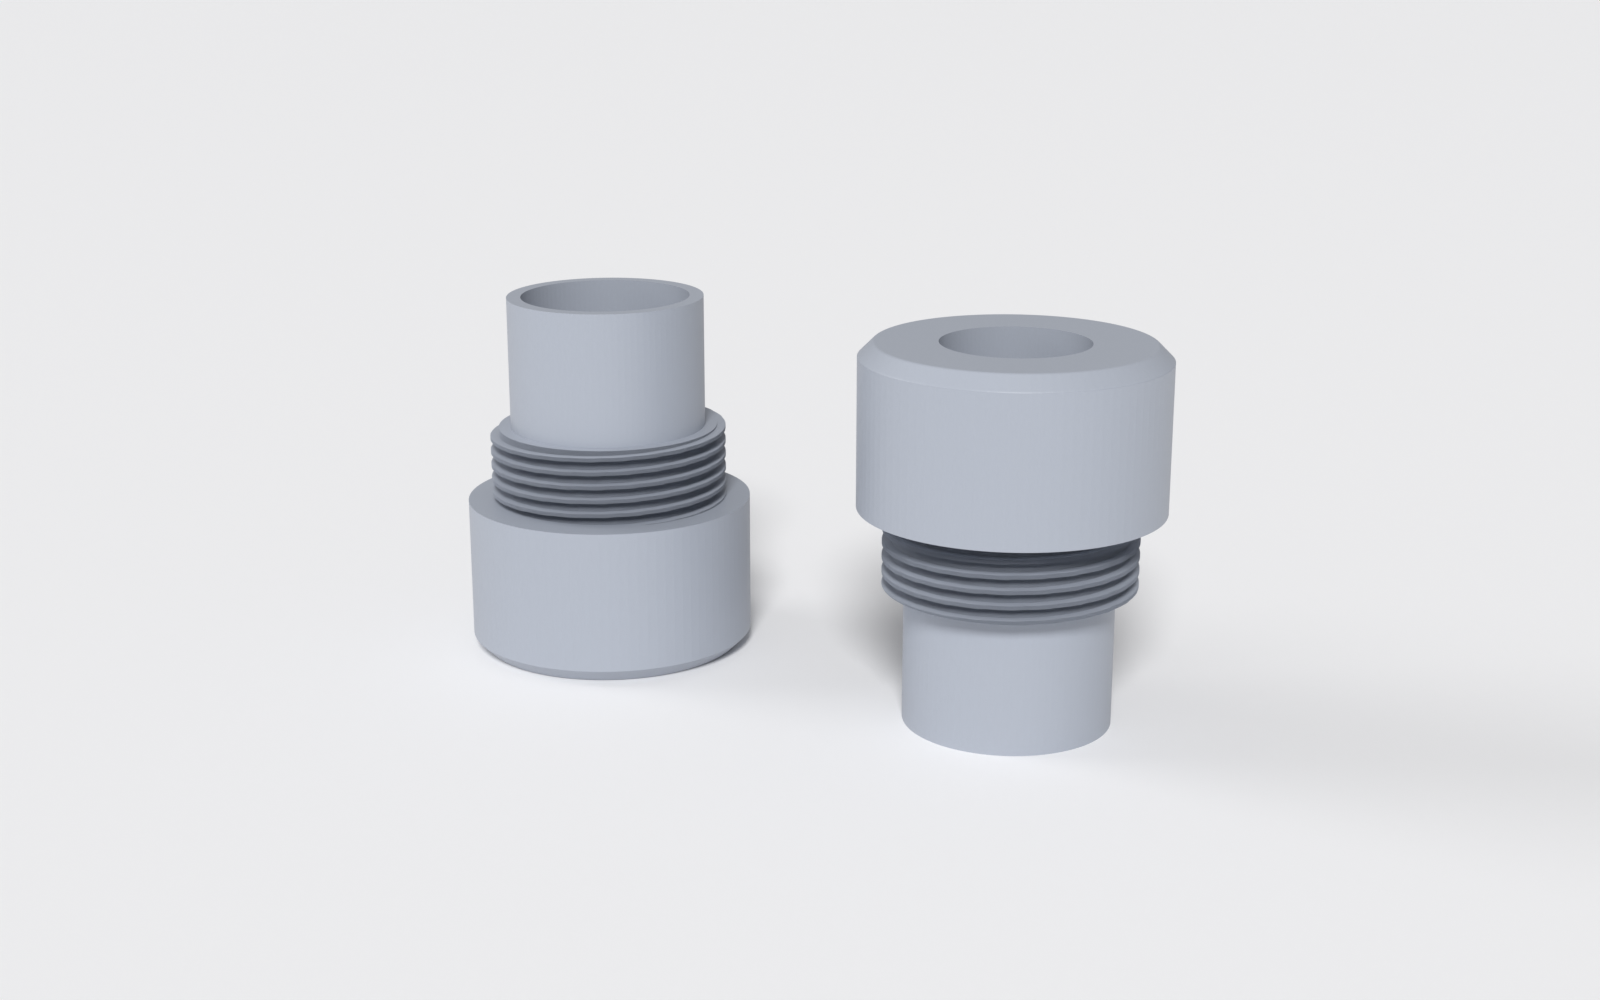
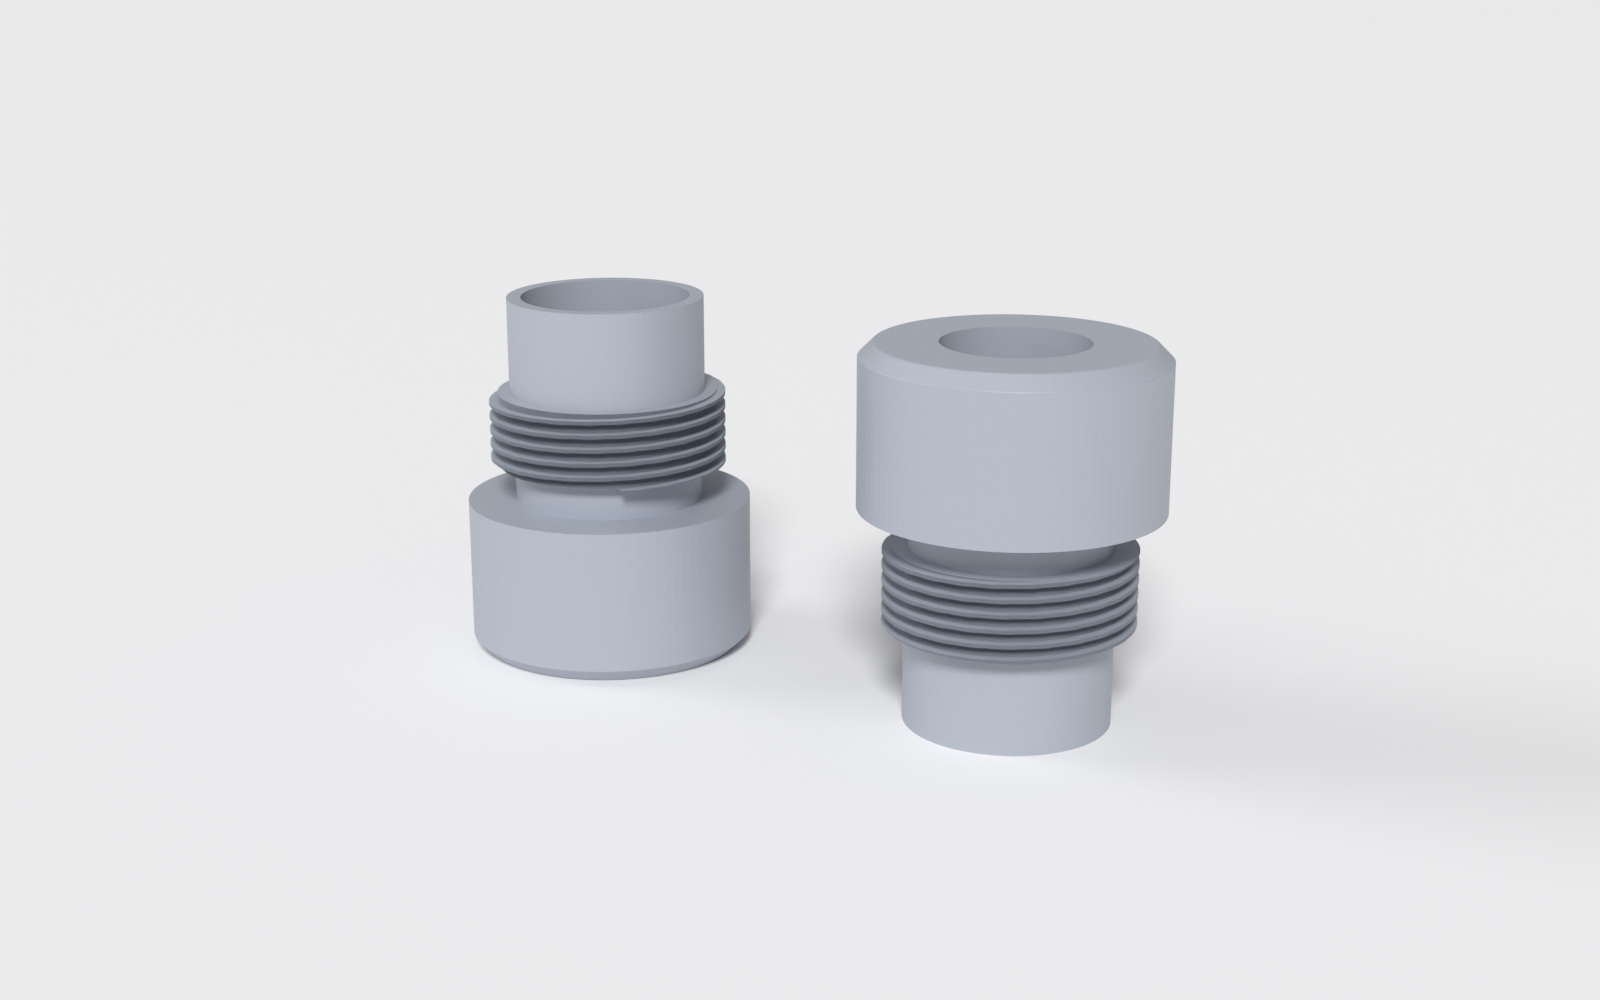
Add optional O-ring weather seal (seal neck) to the housing
The rear now necks down to a Ø13.5 x 2.6mm seal zone between the collar and
the thread. It works dry; dropping a ~13x3 O-ring into the NC3MXX shell's
smooth internal lip pocket weatherproofs the housing/shell joint - the shell
bore squeezes the ring against the neck. The wing is shortened by the neck
length so the wing-tip depth (which seats the pin insert) and the overall
length are unchanged. Print-validated sealing on a real shell.

- scad: permanent seal neck + locally necked wire bore for a solid seal wall
- README/SPEC: weather-sealing section + measured provenance
- re-rendered previews; added images/oring_seal.png (with/without O-ring)

Changed region(s): [[0.5312, 0.527, 0.7188, 0.682], [0.2812, 0.372, 0.4688, 0.527]]

diff --git a/scripts/render_previews.py b/scripts/render_previews.py
@@ -68,6 +68,17 @@ def floor_material():
     return mat
 
 
+def rubber_material():
+    mat = bpy.data.materials.get("rubber")
+    if mat is None:
+        mat = bpy.data.materials.new("rubber")
+        mat.use_nodes = True
+        bsdf = mat.node_tree.nodes["Principled BSDF"]
+        bsdf.inputs["Base Color"].default_value = (0.015, 0.015, 0.015, 1.0)
+        bsdf.inputs["Roughness"].default_value = 0.55
+    return mat
+
+
 def bore_rear(obj, radius, depth):
     """Cut a cylindrical recess into the +z end of an object (used to carve
     the bushing-thread opening back into the Neutrik shell, whose STEP export
@@ -180,6 +191,36 @@ def build_and_render_ex(filename, parts, azim=30.0, elev=16.0):
     render(os.path.join(IMG_DIR, filename))
 
 
+def add_oring(x, z, major=8.25, minor=1.5):
+    """A rubber O-ring (torus) resting around the housing axis at height z.
+    major/minor give ID 13.5 / cord 3.0 (OD 19.5), sitting on the Ø13.5 seal
+    neck. z is the neck's mid-height in the housing's own frame (the housing is
+    imported tip-down with no rotation, so model z == world z)."""
+    bpy.ops.mesh.primitive_torus_add(location=(x, 0, z),
+                                     major_radius=major, minor_radius=minor,
+                                     major_segments=96, minor_segments=28)
+    ring = bpy.context.active_object
+    ring.data.materials.append(rubber_material())
+    bpy.ops.object.shade_smooth()
+    return ring
+
+
+def build_oring_render():
+    """Two housings, thread/seal-neck end up: left bare, right with an O-ring
+    seated in the seal neck - shows the optional weather seal in place."""
+    reset_scene()
+    # seal-neck mid-height in the model: z_neck..z_conn_thread ~ 11.0..13.6
+    neck_z = 12.3
+    left = import_stl("housing.stl", euler=(0, 0, 0), x=-15)   # without O-ring
+    right = import_stl("housing.stl", euler=(0, 0, 0), x=15)   # with O-ring
+    add_oring(x=15, z=neck_z)
+    add_floor()
+    add_sun((0.5, -1.0, 0.9), energy=2.5, angle_deg=15)
+    add_sun((-1.0, -0.3, 0.5), energy=0.8, angle_deg=30)
+    frame_camera([left, right], azim_deg=24, elev_deg=15)
+    render(os.path.join(IMG_DIR, "oring_seal.png"))
+
+
 # housing twice: thread/wing-ring end up (as modeled) and capsule end up
 build_and_render("housing.png", [
     ("housing.stl", (0, 0, 0), -16),
@@ -191,6 +232,10 @@ build_and_render("fit_tests.png", [
     ("fit_test_conn_thread.stl", (0, 0, 0), -18),
     ("fit_test_capsule.stl", (0, 0, 0), 18),
 ])
+
+# the optional O-ring weather seal: bare housing vs one with the O-ring seated
+# in the seal neck
+build_oring_render()
 
 # housing next to a real Neutrik NC3MXX connector (shell only, stock boot
 # removed - the printed housing replaces the boot), coaxial, thread facing

diff --git a/README.md b/README.md
@@ -55,6 +55,32 @@ upgrade the electronics to a buffered, impedance-balanced circuit (for
 example a Schoeps- or Alice-style two-transistor front end) - though that
 needs more board space than this connector housing offers.
 
+## Weather sealing (optional)
+
+The rear of the housing necks down to a narrow "seal zone" just behind the
+collar. It works fine dry, but it also lets you weatherproof the joint between
+the printed part and the metal shell with a single O-ring - handy for outdoor
+mics.
+
+![The seal zone bare (left) and with an O-ring seated in it (right)](images/oring_seal.png)
+
+The NC3MXX shell has a smooth, unthreaded lip pocket just inside its rear
+opening, above the internal threads. Drop a **~13 x 3 mm** (inner diameter x
+cord) O-ring into that pocket, then thread the housing in as usual: the seal
+neck passes through the ring and the shell bore squeezes it against the neck,
+sealing the joint. No groove or glue is needed - the ring is captured between
+the shell and the housing.
+
+This was tuned and print-tested against a real NC3MXX shell (neck Ø13.5 mm,
+seal-zone length 2.6 mm). If your shell or O-ring differ, the seal zone is
+parametric: adjust `oring_neck_d`, `oring_neck_len` and `oring_neck_bore_d`
+under **[O-ring seal zone]**, then re-print `fit_test_conn_thread` (it carries
+the seal neck) and check the fit in your shell before a full print.
+
+The front acoustic port cannot be sealed - it has to stay open for the mic - so
+this weatherproofs the rear joint and the electronics cavity, not the capsule
+face.
+
 ## Bill of materials
 
 - **Neutrik NC3MXX** male XLR connector - must have the bushing thread
@@ -63,6 +89,8 @@ needs more board space than this connector housing offers.
   [Adapting to your capsule](#adapting-to-your-capsule))
 - Resistor + capacitor for the P48 circuit
 - Thin wire; optionally a dab of hot glue for permanent capsule retention
+- Optional: a **~13 x 3 mm** (ID x cord) O-ring to weather-seal the
+  housing/shell joint (see [Weather sealing](#weather-sealing-optional))
 
 ## Print the fit tests first
 
@@ -142,8 +170,12 @@ Pre-rendered STLs with the default parameters are included in `stl/`.
 4. Pull the wire slack back while pushing the capsule into the front pocket,
    until its rear face seats flat on the internal lip. Friction holds
    it; a small dab of hot glue makes it permanent.
-5. Screw the housing into the connector shell. The wing ring pushes the pin
-   insert into its seat as the thread tightens.
+5. Optional weather seal: drop a ~13 x 3 mm (ID x cord) O-ring into the
+   connector shell's smooth internal lip pocket, just inside the rear opening
+   above the threads (see [Weather sealing](#weather-sealing-optional)).
+6. Screw the housing into the connector shell. The wing ring pushes the pin
+   insert into its seat as the thread tightens; if fitted, the seal neck passes
+   through the O-ring and the shell squeezes it home.
 
 ## Design notes
 

diff --git a/SPEC.md b/SPEC.md
@@ -146,6 +146,7 @@ measure the capsule and set `capsule_od` to match.
 | Capsule pocket | Ø9.9 mm × 5.2 mm deep (= `capsule_h` + `capsule_depth_clear`, one consistent bore, open to the front face) |
 | Depth stop | solid lip ring, 1.5 mm thick (`lip_len`), opening Ø9.2 mm (`capsule_od - lip_overlap`), starting at `capsule_h + capsule_depth_clear` |
 | Front outer edge (cosmetic) | 1.0mm-run 45° chamfer + 0.3mm fillet on the OD |
+| Seal neck (O-ring seal zone) | Ø13.5 mm x 2.6 mm long between collar and thread, wire bore necked to Ø8.0 mm there (`oring_neck_d` / `oring_neck_len` / `oring_neck_bore_d`) - see below |
 
 `max_od` is enforced by `assert()`s in the derived-values section - rendering
 fails loudly if any parameter change pushes an OD past budget, rather than
@@ -184,6 +185,37 @@ same treatment.
   shrinking overhang. The internal lip prints as a narrow (0.35mm/side)
   overhang step over the pocket; it needs no support.
 
+## O-ring seal zone (optional weather sealing)
+
+The rear necks down to a Ø13.5 mm waist (`oring_neck_d`) for 2.6 mm
+(`oring_neck_len`) between the collar and the thread, with the wire bore locally
+necked to Ø8.0 mm (`oring_neck_bore_d`) so the sealing wall stays a solid
+~2.75 mm. The part works dry; it also accepts an optional O-ring that seals the
+joint to the metal shell for outdoor use.
+
+**How it seals:** the NC3MXX shell has a smooth, unthreaded lip pocket just
+inside its rear opening, above the internal threads (measured bore ~17 mm, depth
+~2.5-2.6 mm - it matches the O-ring's width). An O-ring dropped into that pocket
+is squeezed between the shell bore and the boot's seal neck as the boot threads
+in. The ring lives in the shell, not on the boot, so no groove is needed.
+
+**Provenance (measured / print-tuned against one real shell + one O-ring,
[phone redacted]):** O-ring measured ID ~13 mm / OD ~19 mm (cord ~3 mm; box labeled
+2.5 mm). The neck diameter was found by printing a row of stepped seal-test
+plugs (Ø11.5-13.5 mm) and pushing each into the shell with the ring: Ø13.5
+sealed snug/perfect - loose on the bare neck in air, tight once the shell bore
+confines it (textbook radial seal). The thread + wing shift down by
+`oring_neck_len` and the wing is shortened by the same amount
+(`wing_len_net = wing_len - oring_neck_len`), so the overall length (25.7 mm)
+and the wing-tip depth that seats the pin insert are unchanged - no over-travel.
+`fit_test_conn_thread` carries the seal neck, so it doubles as the seal test;
+verified sealing on the real shell. The shell's internal lip bore came from
+caliper measurement, not the reference mesh (which is exterior-only in the rear
+zone).
+
+For a different shell or O-ring, tune `oring_neck_d` / `oring_neck_len` /
+`oring_neck_bore_d` and re-print `fit_test_conn_thread` to check the fit.
+
 ## Open items
 
 - [ ] Decide if the 2.5mm `body_len` neck is too short in hand - one-line
@@ -193,3 +225,6 @@ same treatment.
 - [ ] Dimensions are only confirmed against one shell and one capsule so
       far; if a print doesn't fit for you, start from the fit-test coupons
       and the tuning advice above.
+- [ ] O-ring seal zone confirmed against one shell + one O-ring only; the
+      neck/lip numbers may need tuning for other shells or ring sizes (see the
+      O-ring seal zone section for how).